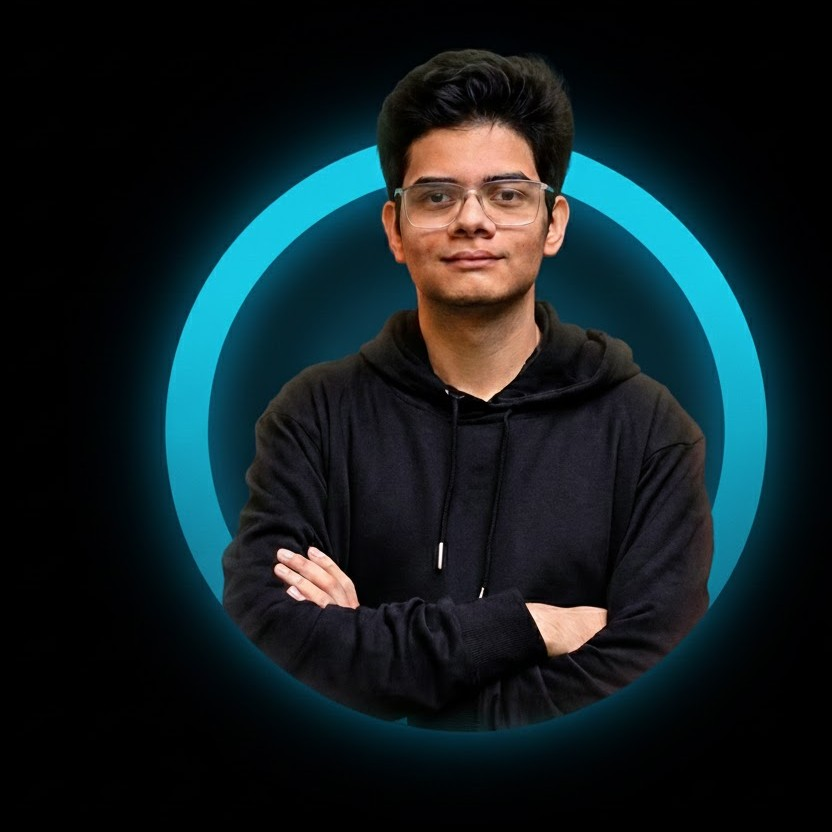
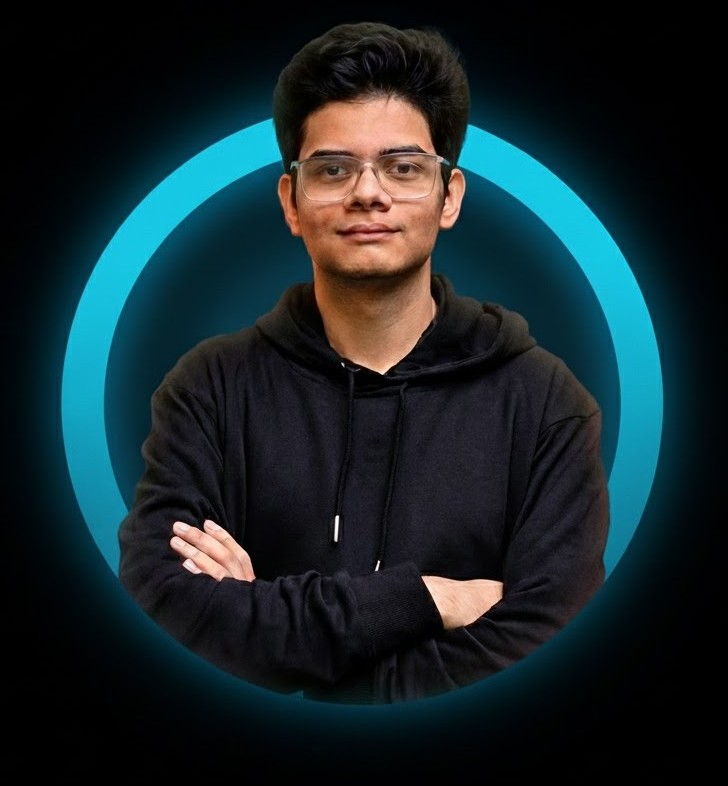
Fixed Navbar

diff --git a/rag-portfolio/app/page.js b/rag-portfolio/app/page.js
@@ -15,71 +15,76 @@ export default function Page() {
     <main className="min-h-screen bg-black text-white overflow-hidden">
 
       {/* ================= HERO ================= */}
-      <section className="pt-28 pb-20 animate-fadeUp">
-        <div className="max-w-7xl mx-auto px-6 lg:px-16 grid lg:grid-cols-2 gap-10 items-center">
+      <section className="pt-20 lg:pt-28 pb-20 animate-fadeUp">
+  <div className="max-w-7xl mx-auto px-6 lg:px-16 grid lg:grid-cols-2 gap-10 items-center">
 
-          {/* LEFT */}
-          <div className="relative animate-[fadeUp_0.8s_ease-out_forwards]">
+    {/* LEFT */}
+    <div className="relative animate-[fadeUp_0.8s_ease-out_forwards]">
 
-            <h1 className="text-5xl lg:text-7xl font-sans tracking-tight leading-tight text-white drop-shadow-[0_8px_30px_rgba(0,0,0,0.6)]">
-              <span className="font-extrabold bg-gradient-to-r from-white via-zinc-200 to-zinc-400 bg-clip-text text-transparent animate-[shimmer_4s_linear_infinite]">
-                Pratham
-              </span>{" "}
-              <span className="font-light text-zinc-300">
-                Tiwari
-              </span>
-            </h1>
+      {/* NAME */}
+      <h1 className="text-4xl sm:text-5xl lg:text-7xl font-sans tracking-tight leading-tight text-white">
+        <span className="font-extrabold bg-gradient-to-r from-white via-zinc-200 to-zinc-400 bg-clip-text text-transparent animate-[shimmer_4s_linear_infinite]">
+  Pratham Tiwari
+</span>
 
-            <p className="mt-5 text-xl text-zinc-400 font-sans">
-              Building{" "}
-              <span className="font-extrabold text-white bg-gradient-to-r from-cyan-400 via-blue-500 to-indigo-500 bg-clip-text text-transparent animate-[shimmer_5s_linear_infinite]">
-                Intelligent Systems
-              </span>{" "}
-              & Scalable Architecture
-            </p>
+        {/* <span className="font-light text-zinc-300">Tiwari</span> */}
+      </h1>
 
-            <div className="mt-8 flex gap-4">
-              <button
-                onClick={() => (window.location.href = "/chat")}
-                className="px-8 py-3 rounded-lg font-semibold text-white bg-[length:200%_200%] bg-gradient-to-r from-blue-500 via-purple-500 to-pink-500 animate-[gradientFlow_3s_linear_infinite] shadow-[0_0_35px_rgba(168,85,247,0.6)] hover:shadow-[0_0_55px_rgba(236,72,153,0.8)] transition"
-              >
-                pratham-v2 / ai-agent →
-              </button>
+      {/* TITLE */}
+      <p className="mt-4 text-lg sm:text-xl text-zinc-400 font-sans">
+        Building{" "}
+        <span className="font-extrabold bg-gradient-to-r from-cyan-400 via-blue-500 to-indigo-500 bg-clip-text text-transparent animate-[shimmer_5s_linear_infinite]">
+          Intelligent Systems
+        </span>{" "}
+        & Scalable Architecture
+      </p>
 
-              <button className="px-7 py-3 font-sans bg-zinc-900 border border-white/10 rounded-lg hover:border-white/30 hover:bg-zinc-800/60 transition">
-                Resume
-              </button>
-            </div>
-
-          </div>
-
-          {/* RIGHT IMAGE */}
-          <div className="relative hidden lg:block">
-            <div className="bg-black relative h-[520px] rounded-2xl overflow-hidden">
-              <Image
-                src="/pratham.jpg"
-                alt="Pratham Tiwari"
-                fill
-                priority
-                className="object-cover"
-              />
-              <div className="absolute inset-0 bg-gradient-to-l" />
-            </div>
-          </div>
+      {/* MOBILE IMAGE */}
+      <div className="mt-8 lg:hidden flex justify-center">
+        <div className="relative w-[260px] sm:w-[300px] aspect-[4/5] rounded-2xl overflow-hidden shadow-xl">
+          <Image
+            src="/Pratham.jpg"
+            alt="Pratham Tiwari"
+            fill
+            priority
+            className="object-cover object-top bg-black"
+          />
         </div>
+      </div>
 
-        {/* MOBILE IMAGE */}
-        <div className="mt-12 lg:hidden flex justify-center">
-          <div className="relative w-[300px] aspect-[4/5] rounded-2xl overflow-hidden shadow-xl">
-            <Image
-              src="/pratham.jpg"
-              alt="Pratham Tiwari"
-              fill
-              className="object-contain bg-black"
-            />
-          </div>
-        </div>
-      </section>
+      {/* BUTTONS */}
+      <div className="mt-8 flex gap-3 justify-center lg:justify-start">
+   <button
+  onClick={() => (window.location.href = "/chat")}
+  className="px-8 py-3 rounded-lg font-semibold text-white bg-[length:200%_200%] bg-gradient-to-r from-blue-500 via-purple-500 to-indigo-500 animate-[gradientFlow_3s_linear_infinite] shadow-[0_0_30px_rgba(99,102,241,0.45)] hover:shadow-[0_0_55px_rgba(99,102,241,0.9),0_0_35px_rgba(168,85,247,0.75)] transition-all duration-200 ease-out hover:scale-[1.04] active:scale-[0.96]"
+>
+  pratham-v2 / ai-agent →
+</button>
+
+
+        <button className="px-6 sm:px-7 py-3 rounded-lg border border-white/20 bg-zinc-900/80 text-white transition-all duration-200 hover:bg-zinc-800 hover:border-white/40 hover:scale-[1.03]">
+          Resume
+        </button>
+      </div>
+    </div>
+
+    {/* RIGHT IMAGE (DESKTOP ONLY) */}
+    <div className="relative hidden lg:block">
+      <div className="bg-black relative h-[520px] rounded-2xl overflow-hidden">
+        <Image
+          src="/My.jpg"
+          alt="Pratham Tiwari"
+          fill
+          priority
+          className="object-cover object-top"
+        />
+        <div className="absolute inset-0 bg-gradient-to-l" />
+      </div>
+    </div>
+
+  </div>
+</section>
+
 
       {/* ================= TERMINAL + STACK ================= */}
       <Section1 />

diff --git a/rag-portfolio/components/Navbar.jsx b/rag-portfolio/components/Navbar.jsx
@@ -1,31 +1,66 @@
-import { Settings } from "lucide-react";
+"use client";
+
+import { useState } from "react";
+import { Menu, X } from "lucide-react";
 
 export default function Navbar() {
+  const [open, setOpen] = useState(false);
+
   return (
-    <nav className="fixed top-0 w-full z-50 backdrop-blur bg-black/40 border-b border-white/5">
+    <nav className="fixed top-0 w-full z-50 backdrop-blur bg-black/50 border-b border-white/10">
       <div className="max-w-[1400px] mx-auto h-16 px-6 flex items-center justify-between">
-        
-        <div className="flex items-center gap-3">
+
+        {/* LEFT: BRAND */}
+        <div className="flex items-center gap-3 text-white">
           <span className="w-1.5 h-6 bg-blue-500 rounded-full" />
-          <span className="font-semibold tracking-tight">Pratham.dev</span>
+          <span className="font-semibold tracking-tight text-white">
+            Pratham.dev
+          </span>
         </div>
 
+        {/* CENTER: DESKTOP LINKS */}
         <div className="hidden md:flex items-center gap-6 text-sm text-zinc-400">
-          <a className="hover:text-white transition">Dashboard</a>
-          <a className="hover:text-white transition">Projects</a>
-          <a className="hover:text-white transition">Skills</a>
-          <a className="hover:text-white transition">Contact</a>
+          <a href="/" className="hover:text-white transition">Dashboard</a>
+          <a href="/projects" className="hover:text-white transition">Projects</a>
+          <a href="#skills" className="hover:text-white transition">Skills</a>
+          <a href="#contact" className="hover:text-white transition">Contact</a>
         </div>
 
-        <div className="flex items-center gap-4">
-          <span className="flex items-center gap-2 px-3 py-1 rounded-full bg-zinc-800 border border-white/10 text-xs">
+        {/* RIGHT */}
+        <div className="flex items-center gap-4 text-white">
+
+          {/* STATUS */}
+          <span className="flex items-center gap-2 px-3 py-1 rounded-full bg-zinc-900 border border-white/15 text-xs text-white">
             <span className="w-2 h-2 bg-green-500 rounded-full animate-pulse" />
             Available
           </span>
-          <Settings size={18} className="text-zinc-400" />
-        </div>
 
+          {/* MOBILE TOGGLE */}
+          <button onClick={() => setOpen(!open)} className="md:hidden text-white">
+            {open ? <X size={20} /> : <Menu size={20} />}
+          </button>
+        </div>
       </div>
+
+      {/* MOBILE MENU */}
+      {open && (
+        <div className="md:hidden bg-black/90 backdrop-blur border-t border-white/10 animate-[fadeDown_0.25s_ease-out_forwards]">
+          <div className="px-6 py-4 flex flex-col gap-4 text-zinc-300 text-sm">
+            <a href="/" onClick={() => setOpen(false)} className="hover:text-white">Dashboard</a>
+            <a href="/projects" onClick={() => setOpen(false)} className="hover:text-white">Projects</a>
+            <a href="#skills" onClick={() => setOpen(false)} className="hover:text-white">Skills</a>
+            <a href="#contact" onClick={() => setOpen(false)} className="hover:text-white">Contact</a>
+          </div>
+        </div>
+      )}
+
+      {/* animation */}
+      <style jsx global>{`
+        @keyframes fadeDown {
+          from { opacity: 0; transform: translateY(-8px); }
+          to { opacity: 1; transform: translateY(0); }
+        }
+      `}</style>
     </nav>
   );
 }
